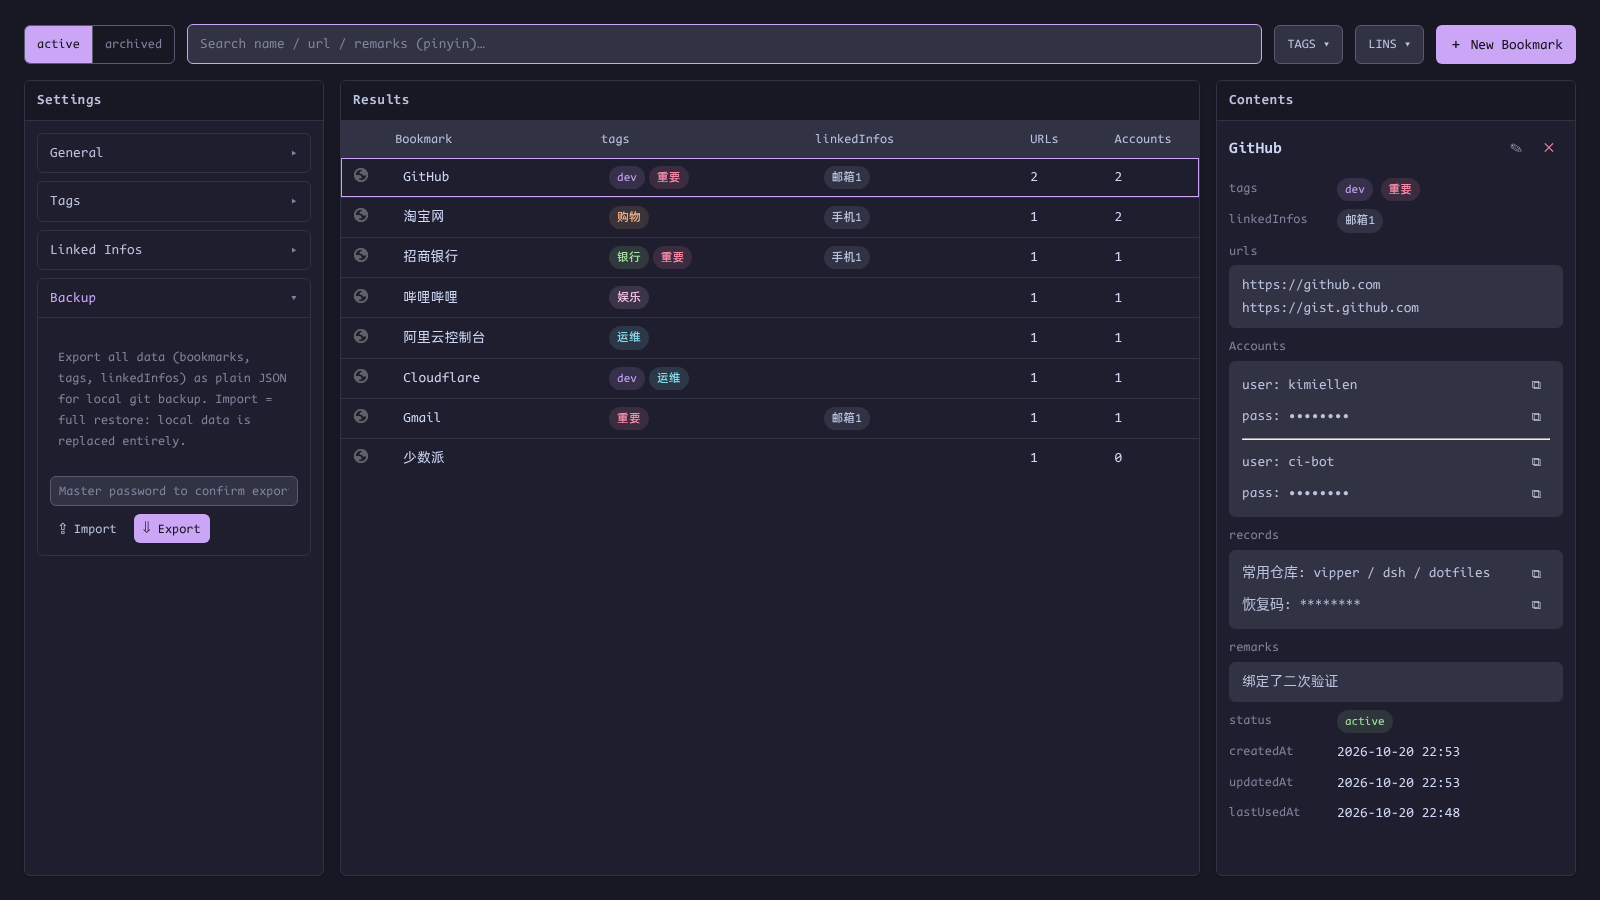
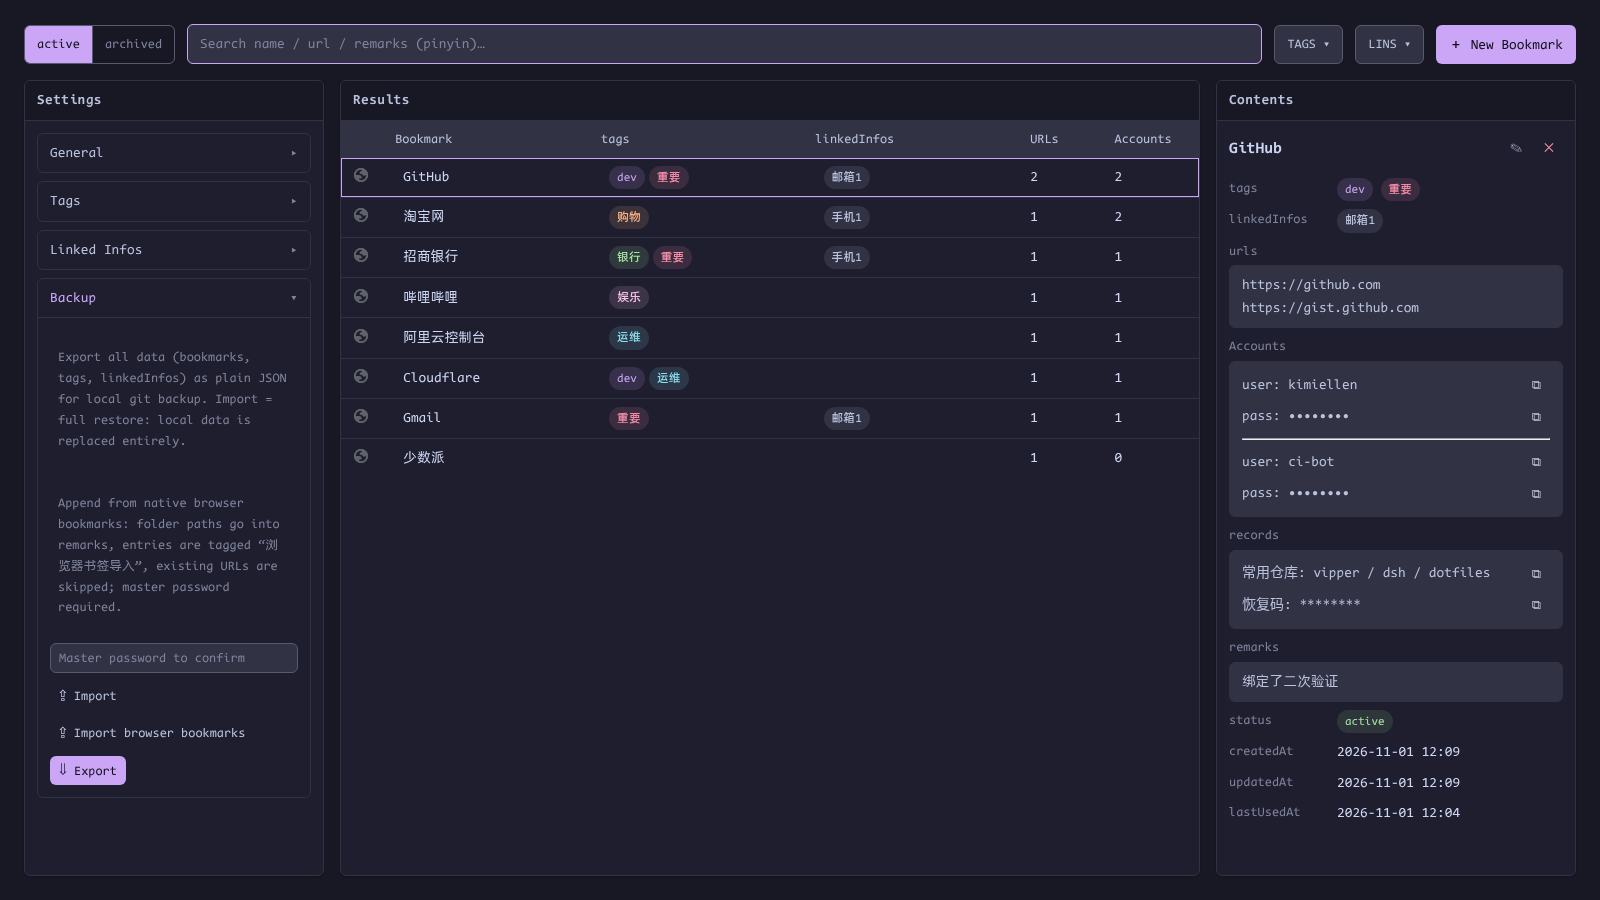
docs: 补充浏览器书签导入手册与备份面板截图（M37）

diff --git a/docs/guide/backup.md b/docs/guide/backup.md
@@ -20,6 +20,42 @@ Import is **data recovery, not merge**: after validating the file structure, vip
 
 - Sensitive fields from the file are re-encrypted with *your* key on write
 
+## Browser bookmark import
+
+Chrome's native bookmarks can be pulled straight into the vault — no HTML export, no file picker. vipper reads the live bookmark tree, flattens it, and appends every page as a new vault entry.
+
+### What gets imported
+
+- Every bookmark **that has a URL**, from the bookmarks bar, “Other bookmarks”, and any nested folder (folders themselves are not entries)
+- The original title; an empty title falls back to the URL
+- The folder path, written to **remarks** — e.g. `Bookmarks bar / Dev / Vue`; remarks remain searchable
+- The tag **浏览器书签导入** on every imported entry (vipper creates it in `sapphire` on first use, then reuses it)
+- Entries land as **active**, with `createdAt` kept from Chrome's `dateAdded` and `lastUsedAt` set to the import time, so they surface at the top of the list
+
+### How it works (additive, never destructive)
+
+- **Append, not restore**: existing bookmarks and the tag / linked-info tables are left untouched — unlike the JSON import above, nothing is wiped
+- **Duplicates are skipped**: URLs are compared after normalisation (`URL.href`, so trailing slashes and host casing don't matter). A URL already in the vault — active or archived — is skipped and counted
+- **One password gate**: the same master-password field guards export, JSON import, and browser import; a wrong password writes nothing
+- **Batched write**: the batch is written in one storage pass with a single index update, so importing hundreds of bookmarks stays fast
+- vipper only **reads** Chrome's bookmarks — it never adds, moves, or deletes them
+
+### How to import
+
+1. Open the manager (`Alt+.`) and expand **Settings → Backup**
+2. Type your master password in the field
+3. Click **⇪ Import browser bookmarks**
+4. Read the result line, e.g. `Import complete: 12 added, 3 duplicates skipped`
+5. The new entries are already in the list — clear the search or switch back to `active` if you were filtering
+
+> The extension needs the `bookmarks` permission. On the first load after an update Chrome may ask you to accept “Read and change your bookmarks”; until you do, the import button reports a missing-permission error.
+
+### Notes & limits
+
+- Chrome's bookmark **folders** are not recreated; the path lives in remarks. Use tags or linked infos afterwards if you want a richer structure
+- Only title, URL, folder path, and creation date are carried over — icons and visit metadata are not
+- Re-running the import is safe: every URL already present is skipped
+
 ## Recommended routine
 
 1. Export after meaningful changes

diff --git a/docs/guide/zh-CN/backup.md b/docs/guide/zh-CN/backup.md
@@ -20,6 +20,42 @@
 
 - 文件中的敏感字段写入时会用*你的*密钥重新加密
 
+## 导入浏览器书签
+
+Chrome 原生书签可以直接拉进仓库——不用先导出 HTML，也不用选文件。vipper 读取实时书签树、展平成条目，逐条追加进仓库。
+
+### 会导入什么
+
+- 所有**带 URL 的书签**，来自书签栏、“其他书签”以及任意层级文件夹（文件夹本身不算条目）
+- 原始标题；标题为空时回落为 URL
+- 文件夹路径写入**备注**——例如 `书签栏 / 开发 / Vue`，备注仍参与搜索
+- 每条导入条目自动关联 tag **浏览器书签导入**（首次导入时以 `sapphire` 色创建，之后复用）
+- 条目状态为 **active**；`createdAt` 保留 Chrome 的 `dateAdded`，`lastUsedAt` 取导入时间，因此会排在列表顶部
+
+### 处理逻辑（只追加，不破坏）
+
+- **追加而非恢复**：已有书签与 tag / 关联信息表原样保留——与上面的 JSON 导入不同，不清空任何数据
+- **重复跳过**：URL 经规范化（`URL.href`，末尾斜杠与主机大小写不影响比较）后精确比较；仓库里已存在的 URL（active 或 archived）计入“跳过”，不会产生重复条目
+- **同一道主密码闸门**：导出、JSON 导入、浏览器书签导入共用一个主密码输入框；密码错误时一个字节都不会写入
+- **批量落盘**：整批条目一次写入、索引只更新一次，导入上百条书签也不会变慢
+- vipper 只**读取** Chrome 书签，不会新增、移动或删除它们
+
+### 操作步骤
+
+1. 按 `Alt+.` 打开管理页，展开 **设置 → 备份**
+2. 在输入框里输入主密码
+3. 点击 **⇪ 导入浏览器书签**
+4. 查看结果提示，例如 `导入完成：新增 12 条，跳过 3 条重复`
+5. 新条目已在列表中——如果你正在搜索或过滤，清空搜索或切回 `active` 即可看到
+
+> 扩展需要 `bookmarks` 权限。更新后首次加载时 Chrome 可能提示“读取和更改您的书签”，未接受前导入按钮会报缺少权限。
+
+### 说明与边界
+
+- 不会重建 Chrome 的**文件夹**结构；路径保留在备注里。需要更丰富的组织方式时，可再补 tag / 关联信息
+- 只带走标题、URL、文件夹路径与创建时间——图标与访问记录不会导入
+- 重复导入是安全的：已存在的 URL 全部跳过
+
 ## 推荐节奏
 
 1. 有较大改动后导出一次

diff --git a/README.md b/README.md
@@ -59,6 +59,7 @@ Full walkthrough with screenshots: **[Tab group manager](docs/guide/groups.md)**
 - Free-form records per bookmark: plain `note` and encrypted `secret` (recovery codes, API keys, …)
 - Tags with Catppuccin colors and linked infos (phone / email / WeChat) are reference-safe: entries in use can't be deleted
 - Archive old entries (manual or auto after N days), import/export as JSON for git-friendly backups
+- **Import native Chrome bookmarks** in one click: pages are appended, folder paths go into remarks, duplicates are skipped, existing entries stay untouched, and everything is tagged 浏览器书签导入
 - Catppuccin Mocha/Latte themes and 中文/English UI
 
 ## Security model
@@ -129,7 +130,7 @@ Everyday operations, one page each, with screenshots:
 - [Autofill (Alt+P)](docs/guide/autofill.md) — match rules, multi-account picker, iframe logins
 - [Save on login](docs/guide/auto-save.md) — the save/append prompt after you log in
 - [Tags, linked infos & archive](docs/guide/organization.md) — keeping the vault tidy
-- [Backup: import & export](docs/guide/backup.md) — plaintext JSON, full-restore semantics
+- [Backup: import & export](docs/guide/backup.md) — plaintext JSON, full-restore semantics, additive native-bookmark import
 - [Settings](docs/guide/settings.md) — theme, language, generators, lock & archive policies
 - [Security model](docs/guide/security.md) — encryption details and password reset
 
